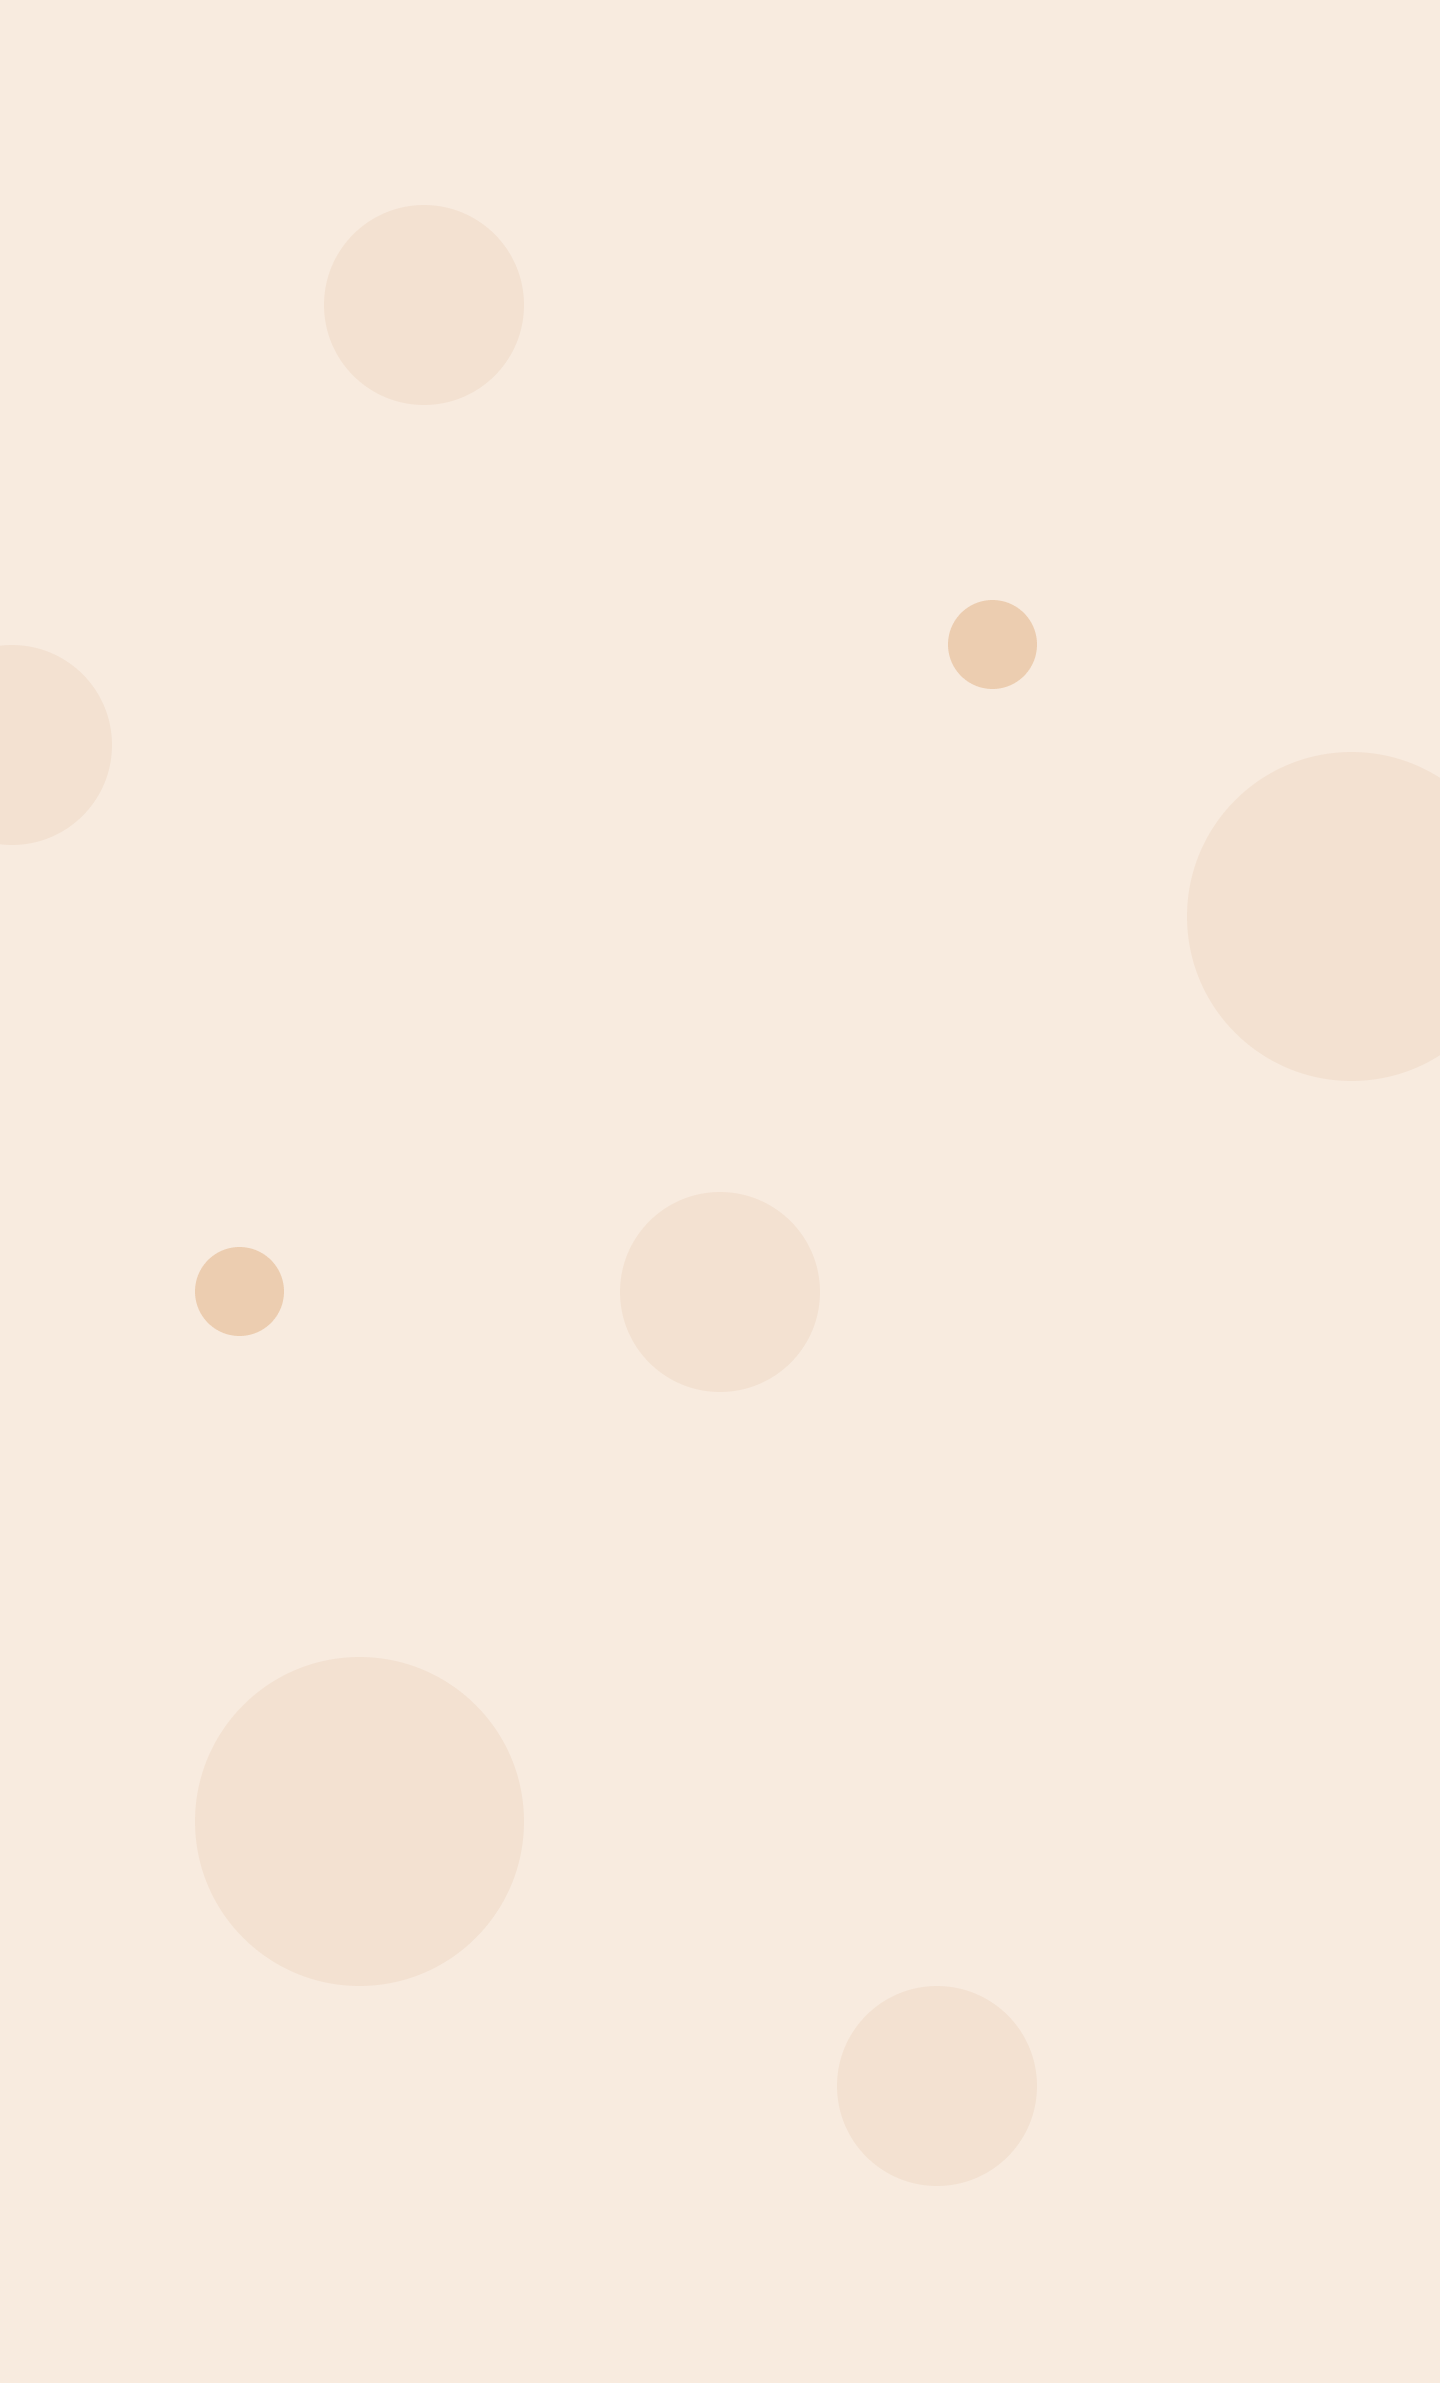
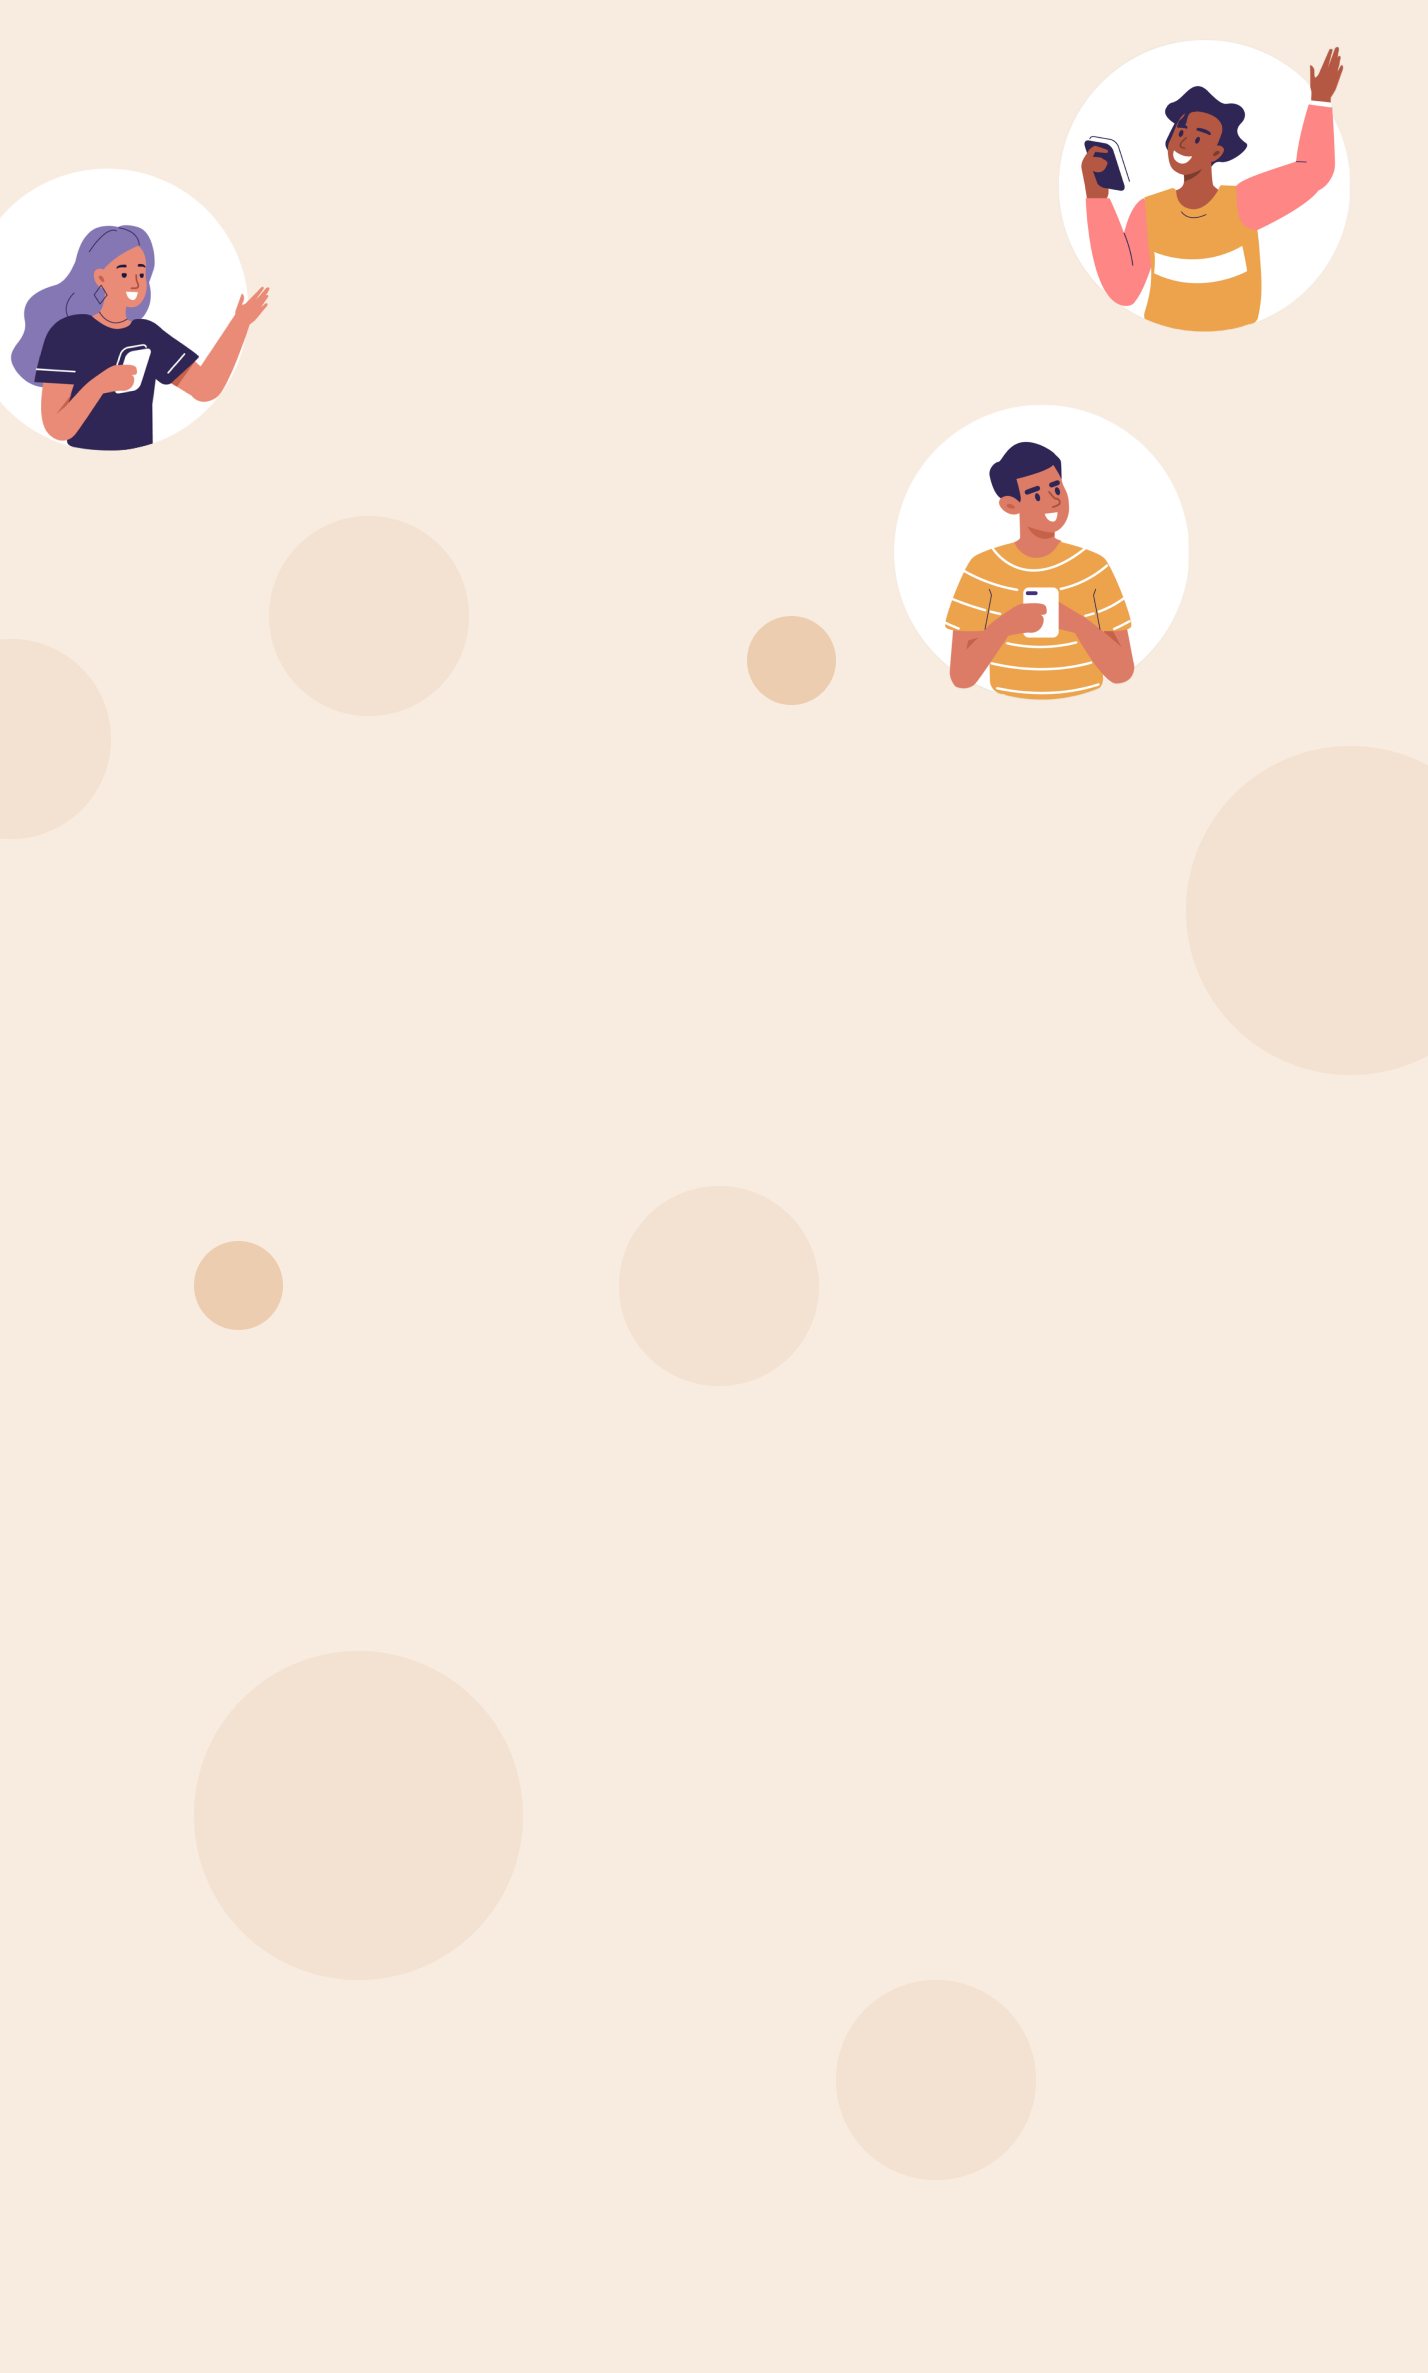
finished styling homepage and signuplogin

Changed region(s): [[0.6162, 0.0, 0.9552, 0.3118], [0.0, 0.0624, 0.1849, 0.1871], [0.5238, 0.2495, 0.5854, 0.3118]]

diff --git a/styles/home.css b/styles/home.css
@@ -30,76 +30,85 @@
     justify-content: center;
     align-items: center;
     margin-top: 100px;
+    color: #320077;
   }
 
 
 .titles {
     height: 1000px;
+    text-align: center;
+    
 }
 
+.main-title-home {
+    font-size: 100px;
+    font-weight: 900;
+    margin-bottom: 0px;
+    padding-bottom: 0px;
+}
+.subtitle-home {
+    font-size: 30px;
+    margin-top: -30px;
+    padding-top: 2px;
+} 
+
+
+
+
+ .home-page-buttons {
+ display: flex;
+ flex-direction: column;
+ align-items: center;
+margin-top: 5%;
+ }
+
+
   .button {
-    display: flex;
-    flex-direction: column;
-  }
+    display: inline-block;
+    color: #252537;
+  
+    width: 240px;
+    height: 50px;
+  
+    padding: 0 20px;
+    background: #fff;
+    border-radius: 20px;
+    
+    outline: none;
+    border: none;
+  
+    cursor: pointer;
+    text-align: center;
+    transition: all 0.2s linear;
+    
+    letter-spacing: 0.05em;
+    margin: 1vh;
+
+}
+
+.button-text {
+    text-decoration: none;
+    color: black;
+    font-size: 24px;
+}
+
 
 
 .information-home{
-    height: 400px;
+    height: 300px;
+    text-align: center;
+    padding-bottom: 20%;
   }
 
+.image-friends-home {
+    height: auto;
+    max-width: 70%;
+    margin-bottom: 100px;
+}
 
-
-
-
-
-
-  /*
-  .button {
-    position: relative;
-    overflow: hidden;
-    padding: 12px 25px;
-    margin: 0px 3px 6px;
-    text-align: center;
-    border: 1px solid rgb(255, 255, 255);
-    border-radius: 30px;
-    text-decoration: none;
-    color: #30287A ;
-    white-space: nowrap;
-    animation: rainbow-btn-home 5s linear infinite;
-    justify-content: center;
-  
-  } 
-  
-  .button::before {
-    position: absolute;
-    content: "";
-    background: rgb(68, 79, 167);
-    transition-duration: 0.3s;
-    z-index: -1;
-    inset: 0px auto auto 0px;
-    width: 0px;
-    height: 100%;
-    opacity: 1;
-    border: 1px solid rgb(255, 255, 255);
-  } 
-  
-  
-  .button:hover::before {
-    width: 100%;
-    height: 100%;
-    opacity: 0.5;
-  } 
-  
-  
-  .button:hover {
-    color: white ;
-    background: #30287A  ;
-    transition: all 0.3s ease 0s;
-    color: white;
-  }  */
-  
-    
-  
-  
-  
-  
+@media (max-width: 768px) {
+  .image-friends-home {
+    height: auto;
+    max-width: 100%;
+  }
+}

diff --git a/src/pages/Home.jsx b/src/pages/Home.jsx
@@ -8,23 +8,26 @@ function Home() {
     
     <div className='home'>
       <div className='titles'>
-        <h1> Clicked </h1>
+        <h1 className="main-title-home"> Clicked </h1>
         <br></br>
-        <h4>Find your clicks </h4>
+        <h4 className="subtitle-home">Find your clicks </h4>
         <br></br>
+        <div className="home-page-buttons">
         <button className='button'>
           <Link to='/signup' className='button-text'>Sign up</Link>
         </button>
         <button className='button'>
           <Link to='/login' className='button-text'>Login</Link>
         </button>
+        </div>
      </div>
      <br></br>
      <br></br>
 
     <section className='information-home'>
-      <h1> fancy title </h1>
-      <p> jsmdfljkmdlsqfkjmqdlskfjfsdml</p>
+      <h1 > Connect with like-minded people </h1>
+      <p> bfjdmlkqfdjsmqlsdkfjmslqdkfnsmqldfndsfkjmsqdlkfjldsqfkj dfslkjdsqfmlkfjd</p>
+      <img className="image-friends-home" src='images/Friends.png' alt="friends"/>
     </section>
 
     </div>

diff --git a/src/App.jsx b/src/App.jsx
@@ -16,19 +16,24 @@ import ClickDetails from "./pages/ClickDetails";
 
 import ChatRoom from "./pages/ChatRoom";
 
-// CHAT
+import { useLocation } from 'react-router-dom';
 
 function App() {
+  const location = useLocation();
+
+  // Determine whether to show the Navbar based on the current path
+  const showNavbar = location.pathname !== '/';
+
   return (
     <div className="App">
-      <Navbar></Navbar>
+      {showNavbar && <Navbar />}
       <Routes>
         <Route path="/" element={<Home />} />
         <Route path="/signup" element={<Signup />} />
         <Route path="/login" element={<Login />} />
         <Route path="/clicks" element={<AllClicks />} />
         <Route path="/clicks/:id" element={<ClickDetails />} />
-   
+
         <Route path="/chat/chatroom/:id" element={<ChatRoom />} />
         <Route
           path="/profile"
@@ -45,4 +50,6 @@ function App() {
     </div>
   );
 }
+
 export default App;
+
